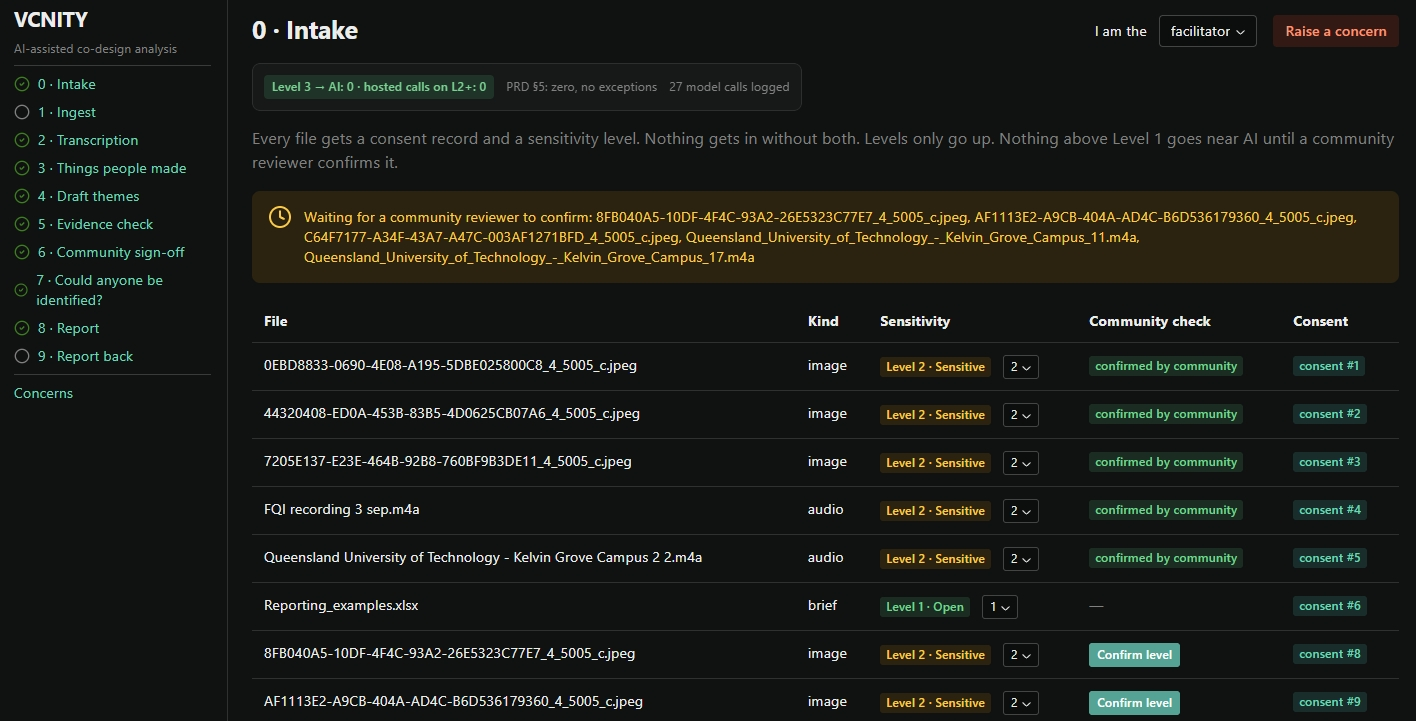
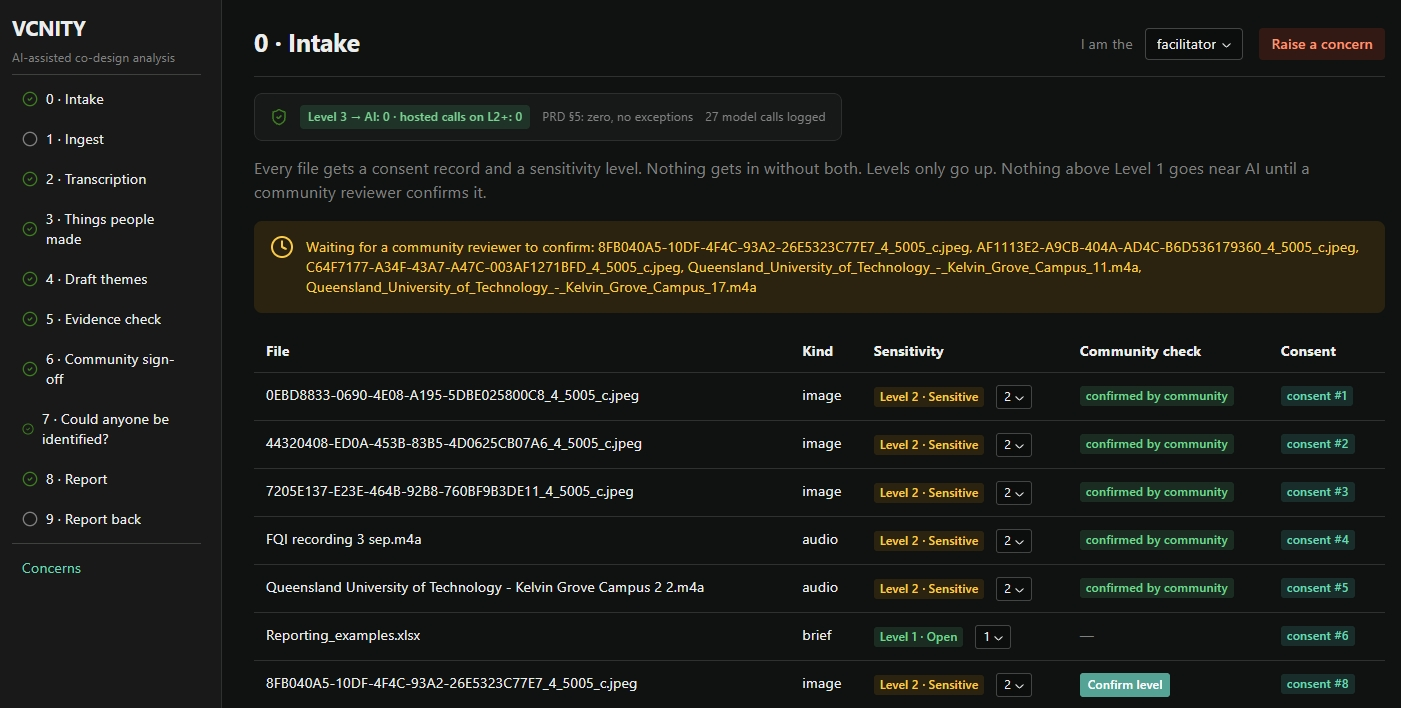
fix: Windows startup crash and Postgres race, polish GUI
app/start.py: reconfigure stdout/stderr to UTF-8 and pass
PYTHONIOENCODING to child processes, so the launcher's own arrow/dash
prints (and the API subprocess's) don't crash on a Windows console's
default codepage.

app/vcnity/db.py: retry the embedded Postgres startup on both
TimeoutExpired and the AssertionError pgserver's "already running"
fast path can raise mid-crash-recovery, evicting pgserver's own stale
cached instance before each retry. WAL replay after an unclean
shutdown can outlast pgserver's hardcoded 10s wait even though the
server finishes starting a few seconds later; without this the whole
API process died on what was otherwise a successful startup.

app/ui/ui/ui.py: visual polish pass through the shared layout
components (active-route highlighting and hover states in the
sidebar, a status icon and more breathing room in the audit panel, a
bottom border under the top bar, table row hover) so every page reads
as designed rather than default-styled, without touching any
state/logic.

Image/index_page.jpg: updated screenshot reflecting the above.

Claude-Session: https://claude.ai/code/session_0126VwgVeKAK1gDzQYPNYa6s

diff --git a/app/ui/ui/ui.py b/app/ui/ui/ui.py
@@ -61,23 +61,31 @@ def audit_panel() -> rx.Component:
     return rx.card(
         rx.hstack(
             rx.cond(AppState.audit_ok,
+                    rx.icon("shield-check", size=18, color="green"),
+                    rx.icon("shield-alert", size=18, color="red")),
+            rx.cond(AppState.audit_ok,
                     rx.badge("Level 3 → AI: 0 · hosted calls on L2+: 0", color_scheme="green", size="2"),
                     rx.badge("AUDIT BREACH", color_scheme="red", size="2")),
             rx.text("PRD §5: zero, no exceptions", size="1", color="gray"),
             rx.text(AppState.audit_total_text, size="1", color="gray"),
             spacing="3", align="center"),
-        size="1")
+        size="1", padding="12px 16px")
 
 
 def stage_nav() -> rx.Component:
     def item(s):
+        active = AppState.router.page.path == s["route"]
         return rx.link(
             rx.hstack(
                 rx.cond(s["done"], rx.icon("circle-check", size=16, color="green"),
                         rx.icon("circle", size=16, color="gray")),
                 rx.text(s["n"], " · ", s["name"], size="2"),
                 spacing="2", align="center"),
-            href=s["route"], underline="none")
+            href=s["route"], underline="none", width="100%",
+            padding="6px 10px", border_radius="6px",
+            background_color=rx.cond(active, "var(--accent-4)", "transparent"),
+            color=rx.cond(active, "var(--accent-12)", "inherit"),
+            _hover={"background_color": rx.cond(active, "var(--accent-4)", "var(--gray-4)")})
 
     return rx.vstack(
         rx.heading("VCNITY", size="5"),
@@ -85,23 +93,27 @@ def stage_nav() -> rx.Component:
         rx.divider(),
         rx.foreach(AppState.stage_names, item),
         rx.divider(),
-        rx.link(rx.text("Concerns", size="2"), href="/concerns", underline="none"),
-        spacing="2", align="start", width="230px", min_width="230px", padding="16px",
+        rx.link(rx.text("Concerns", size="2"), href="/concerns", underline="none",
+                width="100%", padding="6px 10px", border_radius="6px",
+                _hover={"background_color": "var(--gray-4)"}),
+        spacing="2", align="start", width="230px", min_width="230px", padding="20px",
+        background_color="var(--gray-2)",
         border_right="1px solid var(--gray-5)", min_height="100vh")
 
 
 def top_bar(title: str) -> rx.Component:
     return rx.hstack(
-        rx.heading(title, size="6"),
+        rx.heading(title, size="6", weight="bold"),
         rx.spacer(),
-        rx.hstack(rx.text("I am the", size="2"),
+        rx.hstack(rx.text("I am the", size="2", color="gray"),
                   rx.select(ROLES, value=AppState.role, on_change=AppState.set_role),
                   align="center"),
         rx.cond(AppState.jobs.length() > 1,
                 rx.select(AppState.job_options, value=AppState.job_id.to(str), on_change=AppState.select_job),
                 rx.fragment()),
         concern_dialog(),
-        width="100%", align="center", spacing="4", wrap="wrap")
+        width="100%", align="center", spacing="4", wrap="wrap",
+        padding_bottom="16px", border_bottom="1px solid var(--gray-5)")
 
 
 def message_bar() -> rx.Component:
@@ -125,7 +137,7 @@ def page(title: str, *children) -> rx.Component:
     return rx.hstack(
         stage_nav(),
         rx.vstack(top_bar(title), audit_panel(), message_bar(), *children,
-                  spacing="4", width="100%", padding="24px", max_width="1200px"),
+                  spacing="4", width="100%", padding="32px", max_width="1200px"),
         align="start", width="100%", spacing="0")
 
 
@@ -146,6 +158,7 @@ def file_row(f) -> rx.Component:
                             rx.button("Confirm level", size="1", on_click=AppState.confirm_file(f["id"]))))),
         rx.table.cell(rx.cond(f["consent_id"], rx.badge(f["consent_text"]),
                               rx.badge("NO CONSENT", color_scheme="red"))),
+        _hover={"background_color": "var(--gray-3)"},
     )
 
 

diff --git a/app/vcnity/db.py b/app/vcnity/db.py
@@ -5,6 +5,8 @@ the pgvector extension for Windows, macOS and Linux.
 """
 from __future__ import annotations
 
+import subprocess
+import time
 from contextlib import contextmanager
 from pathlib import Path
 
@@ -18,6 +20,9 @@ _uri: str | None = None
 _engine = None
 _Session = None
 
+_PG_START_ATTEMPTS = 15
+_PG_RETRY_DELAY_S = 4
+
 
 def start_pg(pg_dir: Path | None = None) -> str:
     """Start (or reuse) the embedded server and return its SQLAlchemy URI."""
@@ -25,10 +30,35 @@ def start_pg(pg_dir: Path | None = None) -> str:
     if _uri:
         return _uri
     import pgserver
+    from pgserver.postgres_server import PostgresServer
 
     pg_dir = Path(pg_dir or settings.pg_dir)
     pg_dir.mkdir(parents=True, exist_ok=True)
-    _server = pgserver.get_server(pg_dir)
+    resolved_dir = pg_dir.expanduser().resolve()
+
+    # pgserver waits at most 10s (hardcoded in the library) for Postgres to
+    # report ready. WAL crash recovery after an unclean shutdown can take
+    # longer than that even though the server finishes starting a few
+    # seconds later, which would otherwise crash this whole process. Two
+    # distinct races show up here: a subprocess.TimeoutExpired from the
+    # initial pg_ctl wait, or an AssertionError from pgserver's "already
+    # running" fast path reading postmaster.pid in the narrow window where
+    # the process exists but hasn't flipped its status to "ready" yet.
+    #
+    # Either way, pgserver has already cached a half-constructed instance
+    # under this pgdata (it registers itself before startup even begins), so
+    # a plain retry just returns that broken instance instead of trying
+    # again. Evict it first so the retry re-runs startup, which then finds
+    # the now-running server via postmaster.pid and succeeds immediately.
+    for attempt in range(1, _PG_START_ATTEMPTS + 1):
+        try:
+            _server = pgserver.get_server(pg_dir)
+            break
+        except (subprocess.TimeoutExpired, AssertionError):
+            PostgresServer._instances.pop(resolved_dir, None)
+            if attempt == _PG_START_ATTEMPTS:
+                raise
+            time.sleep(_PG_RETRY_DELAY_S)
     raw = _server.get_uri()
     _uri = raw.replace("postgresql://", "postgresql+psycopg://", 1)
     return _uri

diff --git a/app/start.py b/app/start.py
@@ -23,6 +23,16 @@ WEB = HOME / "web"
 
 
 def main() -> int:
+    # A Windows console defaults to a codepage (e.g. cp1252) that can't encode
+    # the arrows/dashes this script prints, crashing on the first such print.
+    # Reconfigure this process's own stdout/stderr, and pass PYTHONIOENCODING
+    # to the API/UI subprocesses so their own non-ASCII prints don't crash either.
+    for stream in (sys.stdout, sys.stderr):
+        try:
+            stream.reconfigure(encoding="utf-8", errors="replace")
+        except (AttributeError, ValueError):
+            pass
+
     api_only = "--api-only" in sys.argv
     if shutil.which("uv") is None:
         print("uv is not installed. See https://docs.astral.sh/uv/ — then re-run.")
@@ -33,6 +43,7 @@ def main() -> int:
     env["UV_PROJECT_ENVIRONMENT"] = str(VENV)
     env["REFLEX_WEB_WORKDIR"] = str(WEB)
     env.setdefault("VCNITY_HOME", str(HOME))
+    env.setdefault("PYTHONIOENCODING", "utf-8")
 
     print(f"[start] syncing dependencies into {VENV} (first run downloads ~2 GB)")
     subprocess.run(["uv", "sync", "--project", str(APP), "--extra", "dev"], env=env, check=True)
